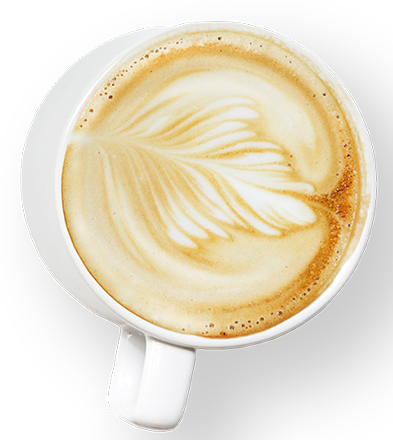
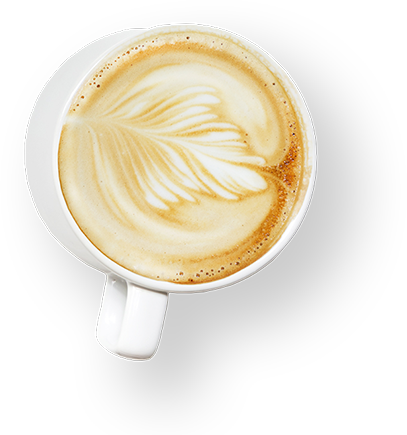
asset cleanup

diff --git a/css/main.css b/css/main.css
@@ -125,8 +125,8 @@ body {
 }
 
 .coffee {
-    width: 265px;
-    height: 265px;
+    width: 300px;
+    height: 300px;
     position: absolute;
     right: 0;
     background: url(/images/coffee.png);
